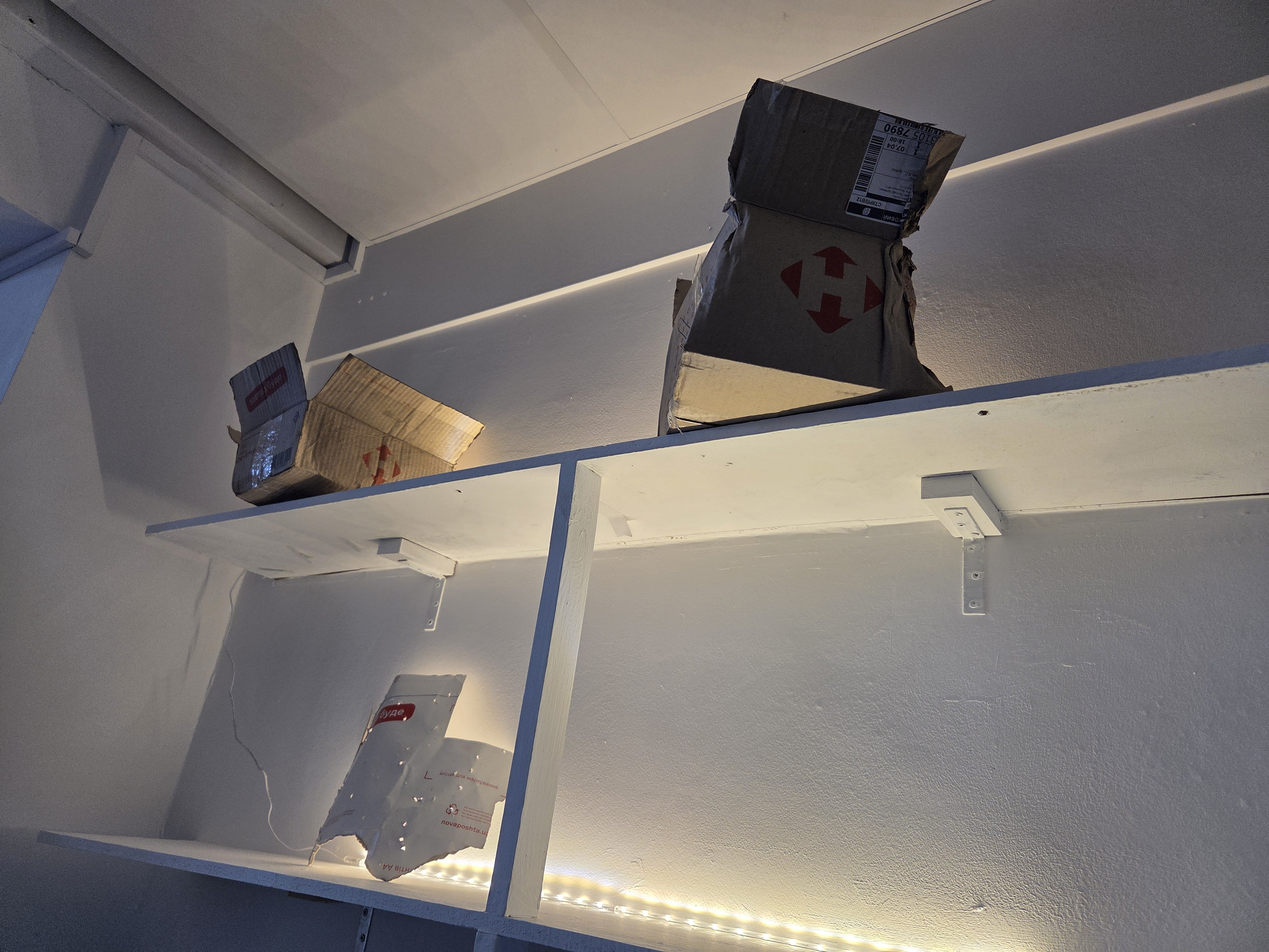
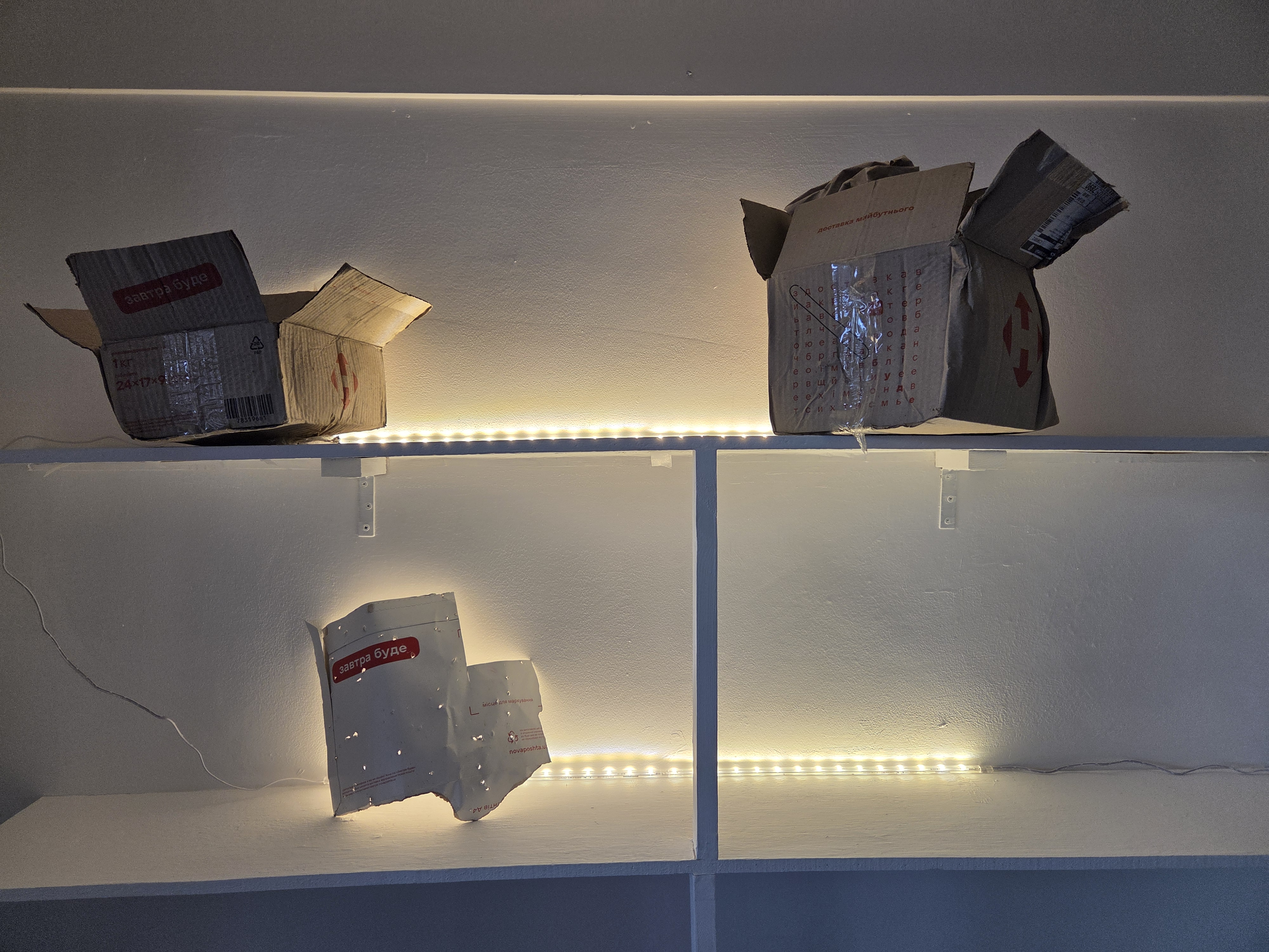
feat: add 3 new sculptures and update homepage sections
New Works (Sculptures):
- Fragmented Memories I (2025) - Irpin home destruction, 6 photos
- Fragmented Memories II (2025) - Kryvyi Rih missile strike, 6 photos
- Everything I Have (2024) - Empty suitcase from Feb 2022 displacement, 2 photos

Work Updates:
- The Weight of Silence - added 09.jpg photo
- Tomorrow Shall Dawn - replaced photos (2 new images)
- In Another Realm - moved from text-informed to sculptures
- My Petrified Heart - moved from text-informed to sculptures
- De-Survivor - marked as featured

Homepage Changes:
- Removed first "Selected Works" section (overlay style)
- Renamed remaining section: "Selected Works" → "Working Across"
- Updated category descriptions per artist brief
- Renamed bottom section: "Selected Works" → "Featured Works"
- Made all section titles dynamic (no hardcoded text)

Category Distribution:
- Sculptures: 10 works (was 5, added 5)
- Text-informed: 9 works (was 14, moved 2 out, removed 3)
- Total works: 30

Technical:
- Created FeaturedWorksContent type and getFeaturedWorksContent()
- Added content/pages/main/featured-works.md
- Updated category-order.json with new work order
- All homepage sections now use dynamic content from markdown files

🤖 Generated with [Claude Code](https://claude.com/claude-code)

diff --git a/components/home/FeaturedWorks.tsx b/components/home/FeaturedWorks.tsx
@@ -1,16 +1,17 @@
 import Link from 'next/link';
 import Image from 'next/image';
-import { getNewFeaturedWorks } from '@/lib/content';
+import { getNewFeaturedWorks, getFeaturedWorksContent } from '@/lib/content';
 
 export default function FeaturedWorks() {
   const works = getNewFeaturedWorks();
+  const content = getFeaturedWorksContent();
 
   if (works.length === 0) return null;
 
   return (
     <section className="mx-auto max-w-7xl px-6 py-12 sm:py-16 lg:px-8">
       <div className="flex items-end justify-between mb-12">
-        <h2 className="text-2xl font-light text-gray-900">Selected Works</h2>
+        <h2 className="text-2xl font-light text-gray-900">{content.title}</h2>
         <Link
           href="/works"
           className="text-sm text-gray-500 hover:text-gray-900 transition-colors"

diff --git a/lib/content.ts b/lib/content.ts
@@ -13,6 +13,7 @@ import {
   AboutPageContent,
   SiteConfig,
   SelectedWorksContent,
+  FeaturedWorksContent,
   InstagramFeedContent,
   ContactPageContent,
   Work,
@@ -88,6 +89,14 @@ export function getSiteConfig(): SiteConfig {
  */
 export function getSelectedWorksContent(): SelectedWorksContent {
   const { data } = readMarkdownFile<SelectedWorksContent>('pages/main/selected-works.md');
+  return data;
+}
+
+/**
+ * Get Featured Works section content
+ */
+export function getFeaturedWorksContent(): FeaturedWorksContent {
+  const { data } = readMarkdownFile<FeaturedWorksContent>('pages/main/featured-works.md');
   return data;
 }
 

diff --git a/app/page.tsx b/app/page.tsx
@@ -1,5 +1,4 @@
 import { Hero } from '@/components/home/Hero';
-import { SelectedWorks } from '@/components/home/SelectedWorks';
 import { SelectedWorksAlt } from '@/components/home/SelectedWorksAlt';
 import { ArtistStatement } from '@/components/home/ArtistStatement';
 import FeaturedWorks from '@/components/home/FeaturedWorks';
@@ -10,7 +9,6 @@ export default function Home() {
     <PageTransition>
       <main>
         <Hero />
-        <SelectedWorks />
         <SelectedWorksAlt />
         <ArtistStatement />
         <FeaturedWorks />

diff --git a/components/home/SelectedWorksAlt.tsx b/components/home/SelectedWorksAlt.tsx
@@ -10,7 +10,7 @@ export function SelectedWorksAlt() {
     <div className="bg-white py-12 sm:py-16">
       <div className="mx-auto max-w-2xl px-6 lg:max-w-7xl lg:px-8">
         <p className="mt-2 max-w-lg text-3xl font-light tracking-wide text-gray-900 sm:text-4xl">
-          {selectedWorks.title} (Alternative)
+          {selectedWorks.title}
         </p>
         <div className="mt-10 grid grid-cols-1 gap-8 sm:mt-16 lg:grid-cols-6 lg:grid-rows-2">
           {firstRow.map((category, index) => (

diff --git a/lib/types.ts b/lib/types.ts
@@ -147,6 +147,10 @@ export interface SelectedWorksContent {
   categories: CategoryInfoWithImage[];
 }
 
+export interface FeaturedWorksContent {
+  title: string;
+}
+
 export const CATEGORIES: CategoryInfo[] = [
   {
     slug: 'installations',

diff --git a/content/works/fragmented-memories-i.md b/content/works/fragmented-memories-i.md
@@ -1,0 +1,20 @@
+---
+title: "Fragmented Memories I"
+year: 2025
+categories: ["sculptures"]
+materials: "Found objects, photograph, torn and charred paper, soil encased in resin, barbed wire"
+dimensions: "W60 × H80 × D6 cm"
+coverImage: "/images/works/fragmented-memories-i/cover.jpg"
+images:
+  - "/images/works/fragmented-memories-i/01.jpg"
+  - "/images/works/fragmented-memories-i/02.jpg"
+  - "/images/works/fragmented-memories-i/03.jpg"
+  - "/images/works/fragmented-memories-i/04.jpg"
+  - "/images/works/fragmented-memories-i/05.jpg"
+shortDescription: "A mixed-media sculpture responding to the destruction of a private home in Irpin, near Kyiv, following Russian military shelling."
+featured: false
+---
+
+Fragmented Memories I is a mixed-media sculpture reflecting on the destruction of a private home in Irpin, near Kyiv, following Russian military shelling during the occupation of the city in 2022. The work translates a specific act of violence against civilian space into a material record of rupture, loss, and displacement.
+
+A burned photograph mounted on scorched and torn paper documents the remains of the house, its fragmented edges bearing direct traces of military damage. Found objects — including fragments of porcelain dolls and personal belongings — function as sculptural witnesses to lives abruptly interrupted. Barbed wire and metal hooks introduce tension, restraint, and exposure, reinforcing the sense of vulnerability imposed on domestic life during war. Soil collected from Irpin and encased in resin preserves the physical memory of place, suspending what has been destroyed within a fragile yet enduring surface.

diff --git a/content/works/fragmented-memories-ii.md b/content/works/fragmented-memories-ii.md
@@ -1,0 +1,20 @@
+---
+title: "Fragmented Memories II"
+year: 2025
+categories: ["sculptures"]
+materials: "Found objects, photograph, torn and charred paper, metal iron-rich local soil encased in resin, barbed wire"
+dimensions: "W60 × H80 × D6 cm"
+coverImage: "/images/works/fragmented-memories-ii/cover.jpg"
+images:
+  - "/images/works/fragmented-memories-ii/01.jpg"
+  - "/images/works/fragmented-memories-ii/02.jpg"
+  - "/images/works/fragmented-memories-ii/03.jpg"
+  - "/images/works/fragmented-memories-ii/04.jpg"
+  - "/images/works/fragmented-memories-ii/05.jpg"
+shortDescription: "A mixed-media sculpture focusing on Kryvyi Rih, where a Russian missile strike destroyed residential buildings."
+featured: false
+---
+
+Fragmented Memories II is a mixed-media sculpture focusing on Kryvyi Rih and its landscapes, where a Russian missile strike destroyed residential buildings during 2022-2024. The work addresses the erasure of everyday domestic environments through direct military violence and the sudden interruption of civilian life.
+
+A burned and fragmented photograph set against charred paper records the loss of ordinary living spaces. Recovered children's toys and household items operate as material remnants of interrupted lives, while barbed wire and metal hooks emphasize restriction, force, and exposure. Iron-rich red soil from Kryvyi Rih's mining region, encased in resin, becomes a central sculptural element. Its colour references both the geological identity of the land and the violence inflicted upon it, positioning the earth itself as a bearer of trauma, memory, and endurance.

diff --git a/content/works/everything-i-have.md b/content/works/everything-i-have.md
@@ -1,0 +1,18 @@
+---
+title: "Everything I Have"
+year: 2024
+categories: ["sculptures"]
+materials: "Empty suitcase"
+dimensions: "W92 × H13 × D67 cm"
+coverImage: "/images/works/everything-i-have/cover.jpg"
+images:
+  - "/images/works/everything-i-have/01.jpg"
+shortDescription: "A mixed-media sculptural work using the artist's own suitcase carried while fleeing Ukraine in February 2022."
+featured: false
+---
+
+Everything I Have is a sculptural work centred on an empty suitcase — an object traditionally meant to contain what is most necessary or valuable. Here, its emptiness becomes a statement, reflecting the experience of forced displacement during Russia's full-scale invasion of Ukraine.
+
+This suitcase is the actual one the artist and her family carried while fleeing Ukraine in February 2022. The work draws attention to the impossible decisions refugees are forced to make under conditions of urgency and fear. What can be taken when time collapses? Documents, clothing, children's drawings, a book, a handful of soil — each choice shaped by instinct, memory, and uncertainty.
+
+In Ukraine today, emergency bags have become part of everyday life, prepared for air raids and sudden evacuation. Yet at the beginning of the invasion, many had no time to pack at all. Homes were destroyed overnight, erasing not only material possessions but the possibility of choice itself. The empty suitcase stands as both a physical object and a space of absence, posing an open question about what war allows one to carry forward — and what it irrevocably leaves behind.

diff --git a/content/pages/main/selected-works.md b/content/pages/main/selected-works.md
@@ -1,21 +1,21 @@
 ---
-title: "Selected Works"
+title: "Working Across"
 categories:
   - slug: "installations"
     displayName: "Installations"
-    description: "Spatial works engaging material, scale, and context to create reflective environments shaped by individual & collective experience"
+    description: "Spatial works engaging material, scale, and context to create reflective environments shaped by individual and collective experience"
     previewImage: "/images/categories/installations-preview.jpg"
     altText: "Immersive installation artwork creating reflective environment"
 
   - slug: "sculptures"
     displayName: "Sculptures"
-    description: "Sculptural works often using found objects to explore endurance, rupture, and material memory"
+    description: "Sculptural works often using found objects to explore endurance, rupture, and material memory shaped by war, displacement, search for justice and peace"
     previewImage: "/images/categories/sculptures-preview.jpg"
     altText: "Sculptural work using found objects"
 
   - slug: "paintings"
     displayName: "Paintings"
-    description: "Material-based paintings using natural pigments and earth imprints, where surface operates as substance"
+    description: "Material-based paintings using natural pigments and earth imprints, where the surface operates as substance"
     previewImage: "/images/categories/paintings-preview.jpg"
     altText: "Material-based painting with natural pigments and earth imprints"
 

diff --git a/content/works/de-survivor.md b/content/works/de-survivor.md
@@ -11,7 +11,7 @@ images:
   - "/images/works/de-survivor/03.jpg"
   - "/images/works/de-survivor/04.jpg"
 shortDescription: "De-Survivor presents a ceramic cup recovered intact from the ruins of a missile-struck residential building in Ukraine. The work reflects on endurance and erasure, questioning what it means for an object to remain when a home can no longer exist."
-featured: false
+featured: true
 ---
 
 This sculptural work isolates a found ceramic cup — the sole unbroken artefact recovered from the ruins of a 16-storey residential building in Kharkiv, which burned for two days following a Russian missile strike. Although the structure remained standing, it was declared uninhabitable and later dismantled, its interior reduced to rubble.

diff --git a/content/works/tomorrow-shall-dawn.md b/content/works/tomorrow-shall-dawn.md
@@ -7,9 +7,6 @@ dimensions: "Variable"
 coverImage: "/images/works/tomorrow-shall-dawn/cover.jpg"
 images:
   - "/images/works/tomorrow-shall-dawn/01.jpg"
-  - "/images/works/tomorrow-shall-dawn/02.jpg"
-  - "/images/works/tomorrow-shall-dawn/03.jpg"
-  - "/images/works/tomorrow-shall-dawn/04.jpg"
 shortDescription: "[Placeholder] Work using damaged packaging boxes bearing phrase 'Tomorrow will come'."
 featured: false
 ---

diff --git a/content/works/the-weight-of-silence.md b/content/works/the-weight-of-silence.md
@@ -14,6 +14,7 @@ images:
   - "/images/works/the-weight-of-silence/06.jpg"
   - "/images/works/the-weight-of-silence/07.jpg"
   - "/images/works/the-weight-of-silence/08.jpg"
+  - "/images/works/the-weight-of-silence/09.jpg"
 shortDescription: "Black vinyl text fixed with sellotape, holding language in tension between visibility and release."
 featured: false
 ---
